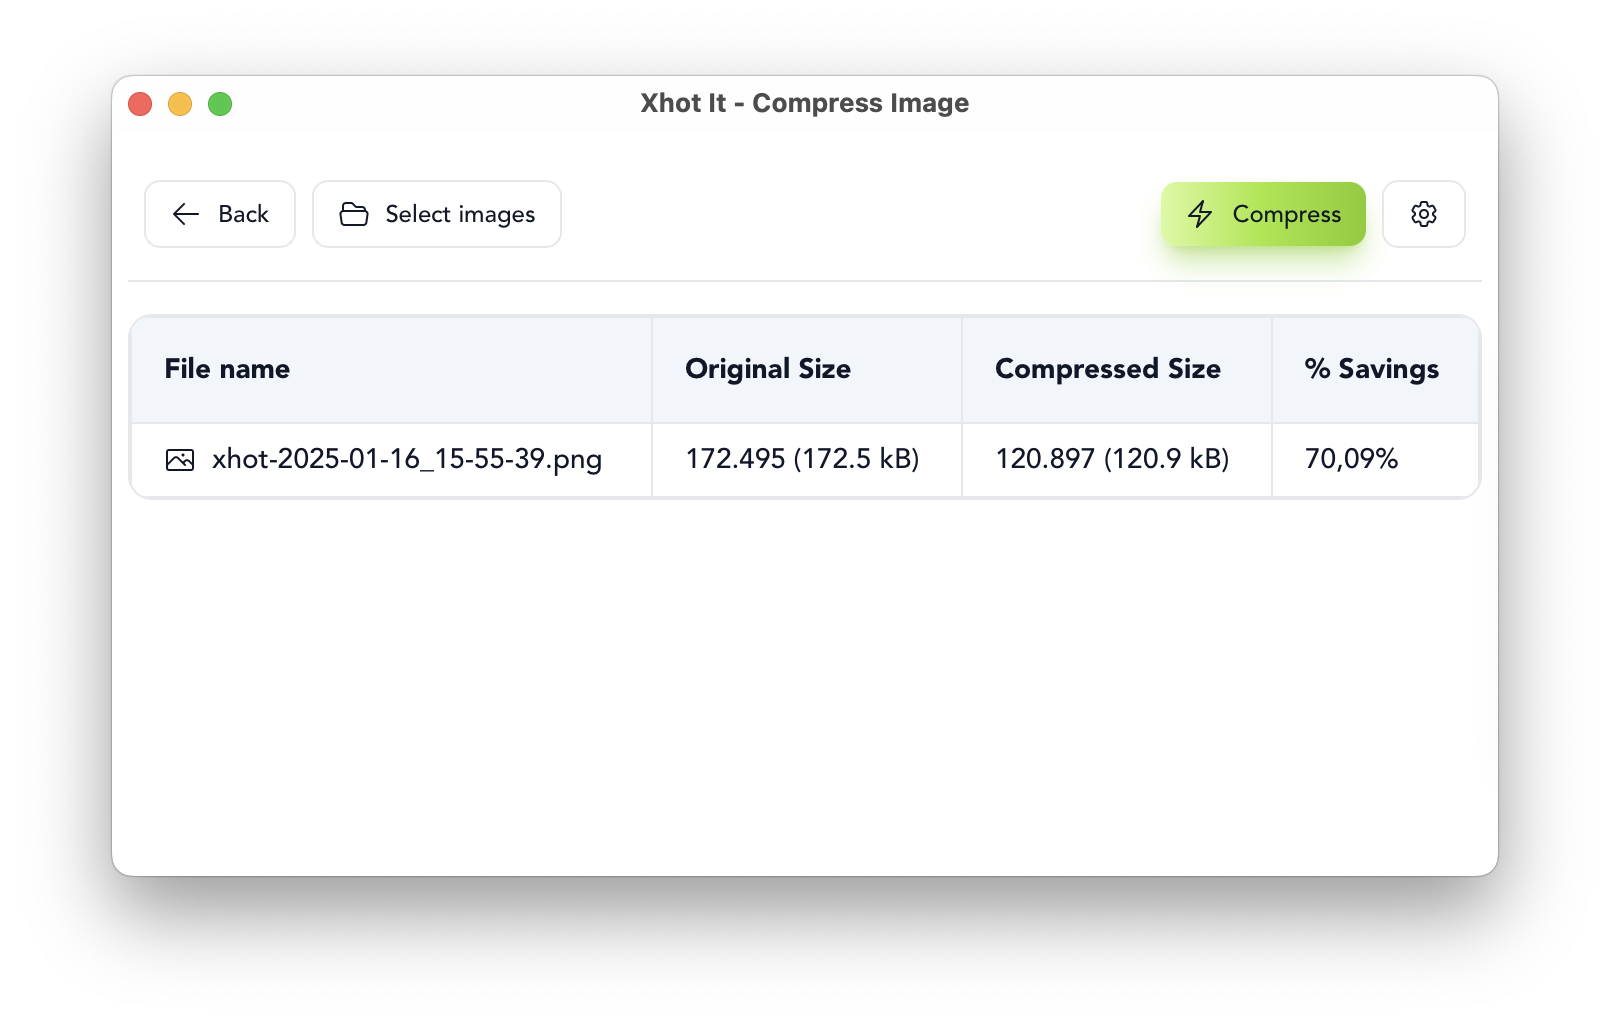
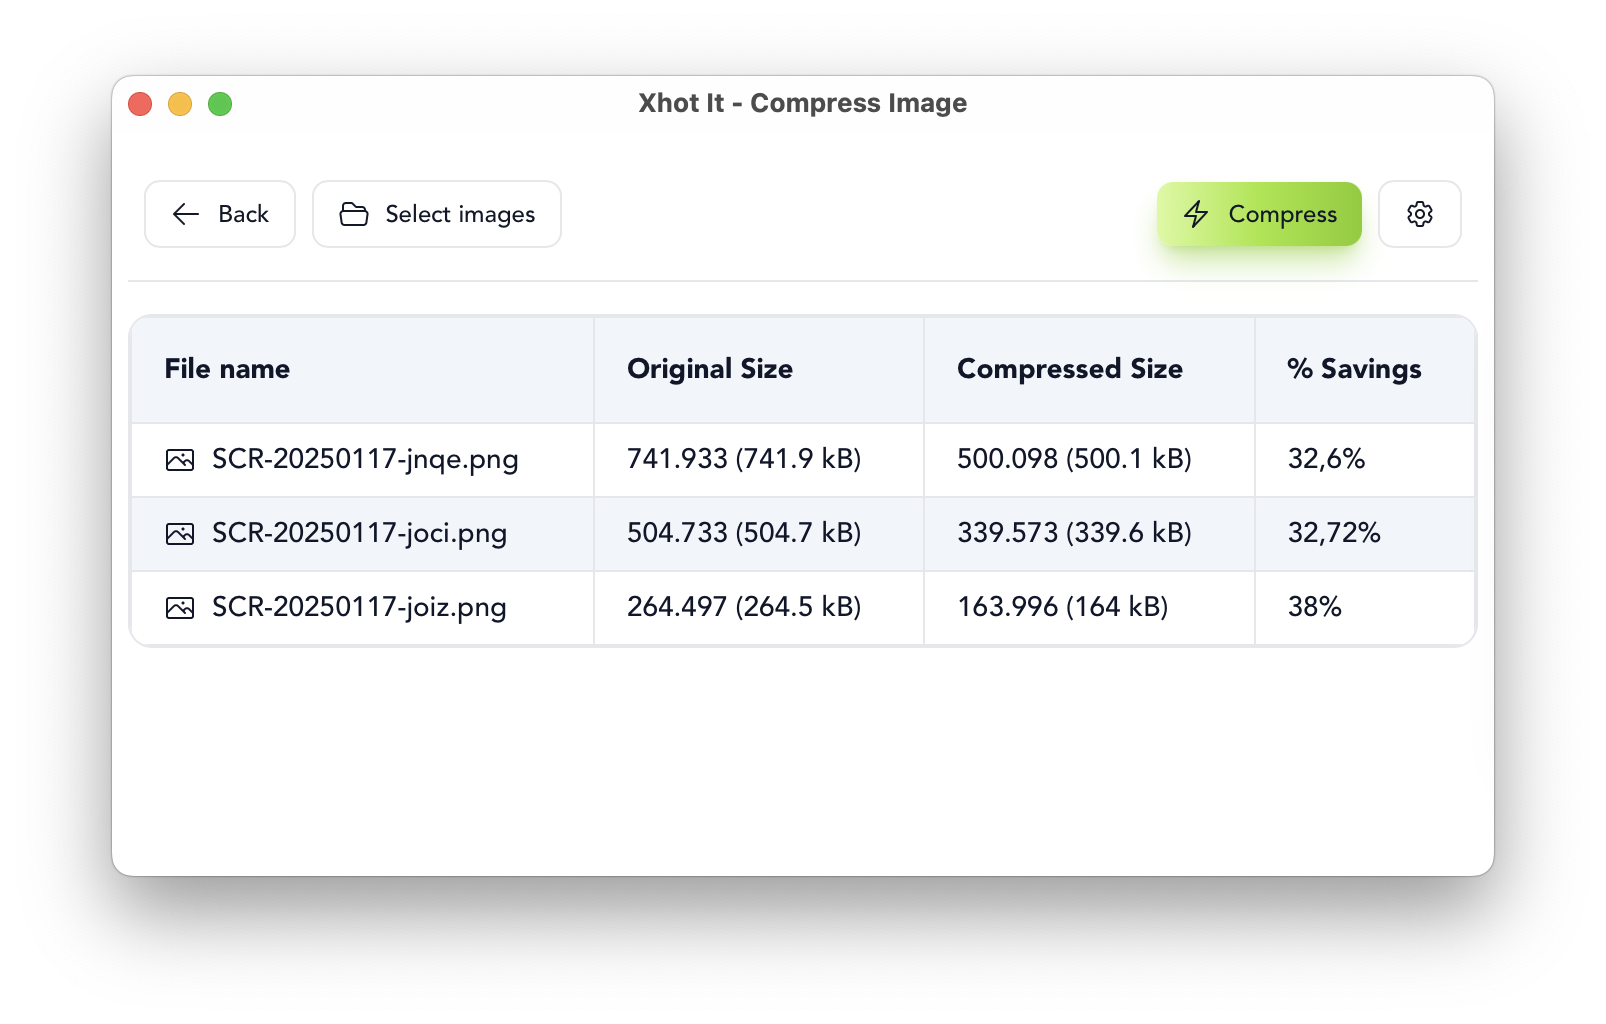
FIX: % Saving calculation in compress screen (#33)
* FIX: % Saving calculation in compress screen

* DOC: Update screenshot

diff --git a/src/compress/store.ts b/src/compress/store.ts
@@ -18,18 +18,18 @@ export type ImageEventPayload = {
   compressed: string;
 };
 
-export type PngFilter = 'MINSUM' | 'ENTROPY' | 'BRUTE_FORCE'
+export type PngFilter = 'MINSUM' | 'ENTROPY' | 'BRUTE_FORCE';
 
 export const PngFilterEnum = {
   MINSUM: 'MINSUM',
   ENTROPY: 'ENTROPY',
-  BRUTE_FORCE: 'BRUTE_FORCE'
-} as const
+  BRUTE_FORCE: 'BRUTE_FORCE',
+} as const;
 
 export type Settings = {
   quality: number;
   overwrite: boolean;
-  filter: PngFilter
+  filter: PngFilter;
 };
 
 export interface CompressAppState {
@@ -38,9 +38,9 @@ export interface CompressAppState {
   isProcessing: boolean;
   settings: Settings;
 
-  setSettingQuality: (payload: number) => void
-  toggleSettingOverwrite: () => void
-  setSettingFilter: (payload: PngFilter) => void
+  setSettingQuality: (payload: number) => void;
+  toggleSettingOverwrite: () => void;
+  setSettingFilter: (payload: PngFilter) => void;
 
   addImage: (payload: string) => void;
   setImages: (payload: ImageStat[]) => void;
@@ -69,6 +69,25 @@ export async function toImageStat(src: string): Promise<ImageStat | null> {
   };
 }
 
+export const calculateSaving = ({
+  origin,
+  compressed,
+}: {
+  origin: number;
+  compressed: number;
+}): number => {
+  let saving = 0;
+
+  if (origin === compressed) {
+    // Do nothing
+  } else if (compressed < origin) {
+    saving = ((origin - compressed) / origin) * 100;
+  } else {
+    saving = -(((compressed - origin) / origin) * 100);
+  }
+
+  return saving;
+};
 export const useCompressAppStore = create<CompressAppState>()(
   persist(
     (set, get) => ({
@@ -79,35 +98,34 @@ export const useCompressAppStore = create<CompressAppState>()(
       settings: {
         overwrite: false,
         quality: 70,
-        filter: 'MINSUM'
+        filter: 'MINSUM',
       },
 
       setSettingQuality: (payload) => {
         set((state) => ({
           settings: {
             ...state.settings,
-            quality: payload
-          }
-        }))
+            quality: payload,
+          },
+        }));
       },
-
 
       toggleSettingOverwrite: () => {
         set((state) => ({
           settings: {
             ...state.settings,
-            overwrite: !state.settings.overwrite
-          }
-        }))
+            overwrite: !state.settings.overwrite,
+          },
+        }));
       },
 
       setSettingFilter: (payload) => {
         set((state) => ({
           settings: {
             ...state.settings,
-            filter: payload
-          }
-        }))
+            filter: payload,
+          },
+        }));
       },
 
       addImage: async (payload) => {
@@ -167,15 +185,10 @@ export const useCompressAppStore = create<CompressAppState>()(
 
         const pSrc = convertFileSrc(payload.compressed);
         const newSize = await getImageSize(pSrc);
-        let saving = 0;
-
-        if (newSize === matchImage.file_size) {
-          // Do nothing
-        } else if (newSize < matchImage.file_size) {
-          saving = (newSize / matchImage.file_size) * 100;
-        } else {
-          saving = -((newSize / matchImage.file_size) * 100);
-        }
+        const saving = calculateSaving({
+          origin: matchImage.file_size,
+          compressed: newSize,
+        });
 
         set((state) => ({
           images: state.images.map((i) => {
